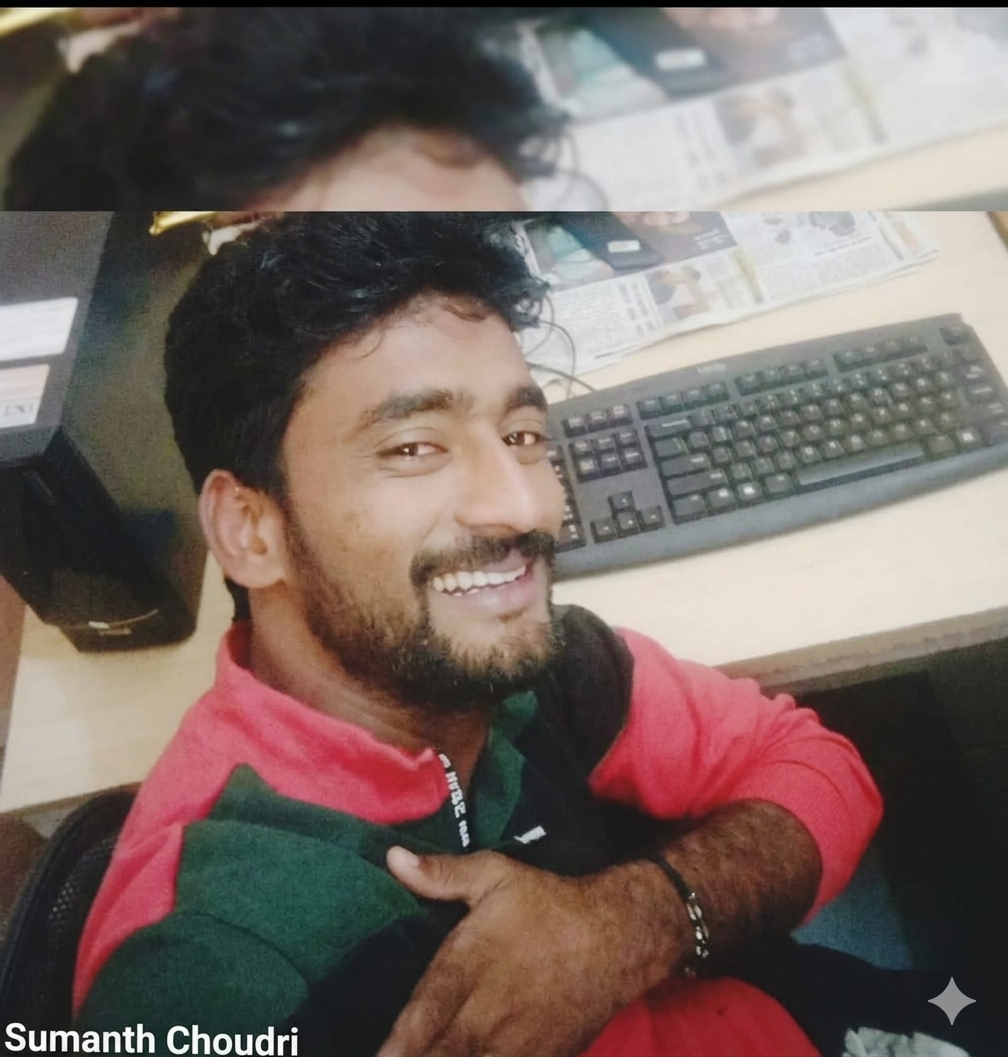
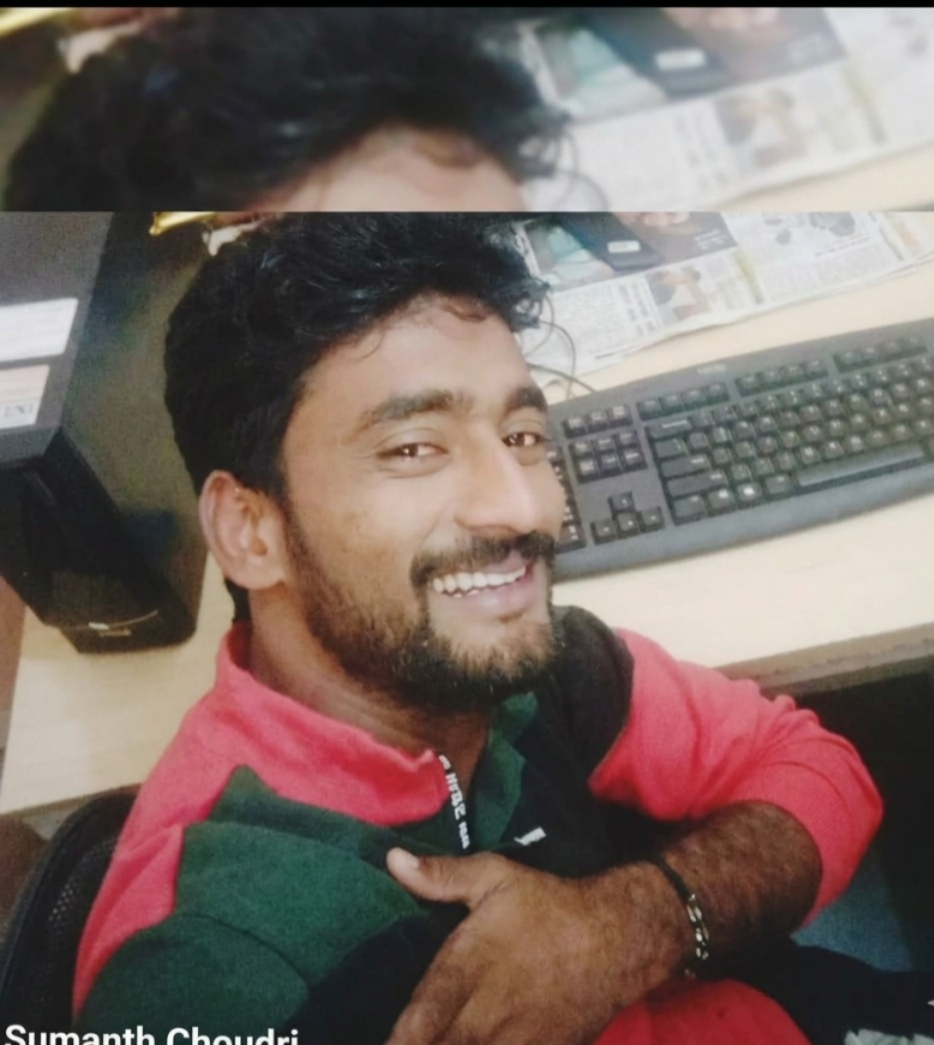
adding  pic

diff --git a/src/components/GalleryPage.jsx b/src/components/GalleryPage.jsx
@@ -136,6 +136,19 @@ const GalleryPage = () => {
                     opacity: 1;
                 }
 
+                /* Memory Share Card Styling */
+                .memory-share-card {
+                    background: linear-gradient(135deg, #1a1a2e 0%, #16213e 100%);
+                    border: 2px dashed #00d4ff;
+                }
+
+                .memory-share-card:hover {
+                    background: linear-gradient(135deg, #16213e 0%, #0f3460 100%);
+                    border-color: #00f0ff;
+                    box-shadow: 0 0 20px rgba(0, 212, 255, 0.5);
+                    transform: scale(1.02);
+                }
+
                 /* Mobile always visible */
                 @media (max-width: 768px) {
                     .overlay {
@@ -226,6 +239,37 @@ const GalleryPage = () => {
                         </div>
                     </div>
                 ))}
+                
+                {/* Memory Share Card */}
+                <div style={{
+                    position: 'relative',
+                    aspectRatio: '1/1',
+                    overflow: 'hidden',
+                    borderRadius: '12px',
+                    backgroundColor: '#1a1a2e',
+                    border: '2px dashed #00d4ff',
+                    display: 'flex',
+                    alignItems: 'center',
+                    justifyContent: 'center',
+                    cursor: 'pointer',
+                    transition: 'all 0.4s ease',
+                    hover: {
+                        backgroundColor: '#16213e',
+                        borderColor: '#00f0ff'
+                    }
+                }} className="memory-share-card">
+                    <div style={{
+                        textAlign: 'center',
+                        color: '#00d4ff',
+                        fontSize: '1.5rem',
+                        fontWeight: '700',
+                        padding: '20px',
+                        letterSpacing: '0.5px'
+                    }}>
+                        Share your favorite school 
+                        memories with us<br />
+                    </div>
+                </div>
             </div>
 
             {selectedImage && (

diff --git a/src/components/TeachersPage.jsx b/src/components/TeachersPage.jsx
@@ -1,15 +1,19 @@
 import React, { useState } from "react";
 
 // ✅ IMPORT IMAGES (ONLY AVAILABLE TEACHER FILES)
-import jattappaImg from "../assets/Jattappa.jpeg";
+import subhasImg from "../assets/Subhas sir.jpg";
+import bhagamma from "../assets/Bhagamma mam.jpg";
+import sumanthImg from "../assets/Sumanth sir.jpg";
 import principalImg from "../assets/principal.jpg";
 import madivalappaImg from "../assets/Madivalappa sir.jpg";
 import malluImg from "../assets/Mallu sir.jpg";
 import rajkumarImg from "../assets/Rajkumar sir.jpg";
 import shantalingappaImg from "../assets/Shantalingappa sir.jpg";
-import sumanthImg from "../assets/Sumanth sir.jpg";
-import subhasImg from "../assets/Subhas sir.jpg";
 import chandruImg from "../assets/Chandru sir.jpg";
+import RenukaImg from "../assets/Renuka mam.jpg";
+import AshwiniImg from "../assets/Ashwini mam.jpg";
+
+
 
 
 const TeachersPage = () => {
@@ -30,13 +34,17 @@ const TeachersPage = () => {
 
   // ✅ UPDATED TEACHER DATA WITH AVAILABLE IMAGES
   const teachers = [
+    { name: "Subhas Sir", img: subhasImg },
+    { name: "Bhagamma Mam", img: bhagamma },
+     { name: "Sumanth Sir", img: sumanthImg },
     { name: "Madivalappa Sir", img: madivalappaImg },
     { name: "Mallu Sir", img: malluImg },
     { name: "Rajkumar Sir", img: rajkumarImg },
     { name: "Shantalingappa Sir", img: shantalingappaImg },
-    { name: "Sumanth Sir", img: sumanthImg },
-    { name: "Subhas Sir", img: subhasImg },
     { name: "Chandru Sir", img: chandruImg },
+    { name: "Renuka Mam", img: RenukaImg },
+    { name: "Ashwini Mam", img: AshwiniImg },
+   
   ];
 
   return (
